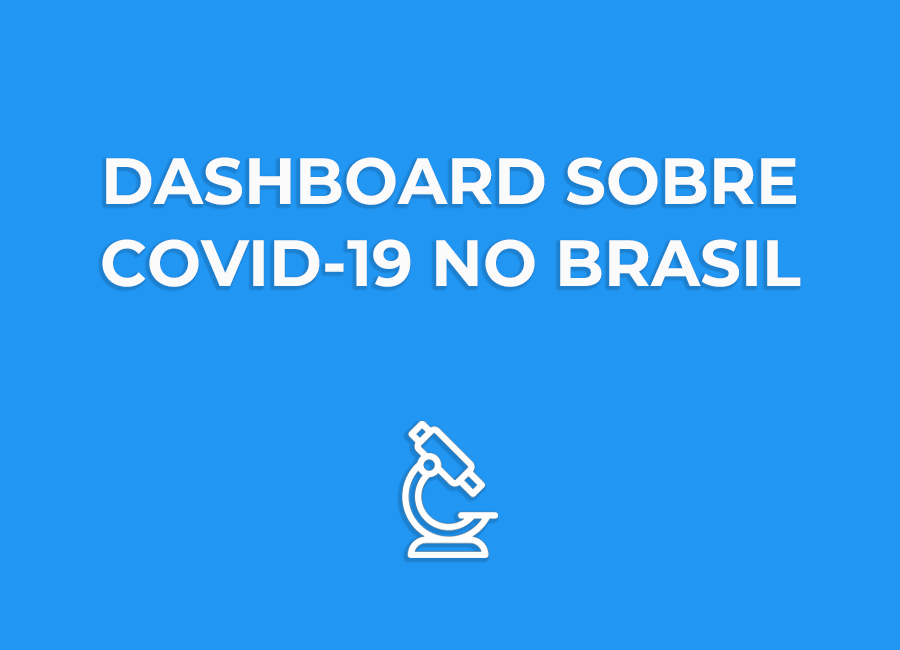
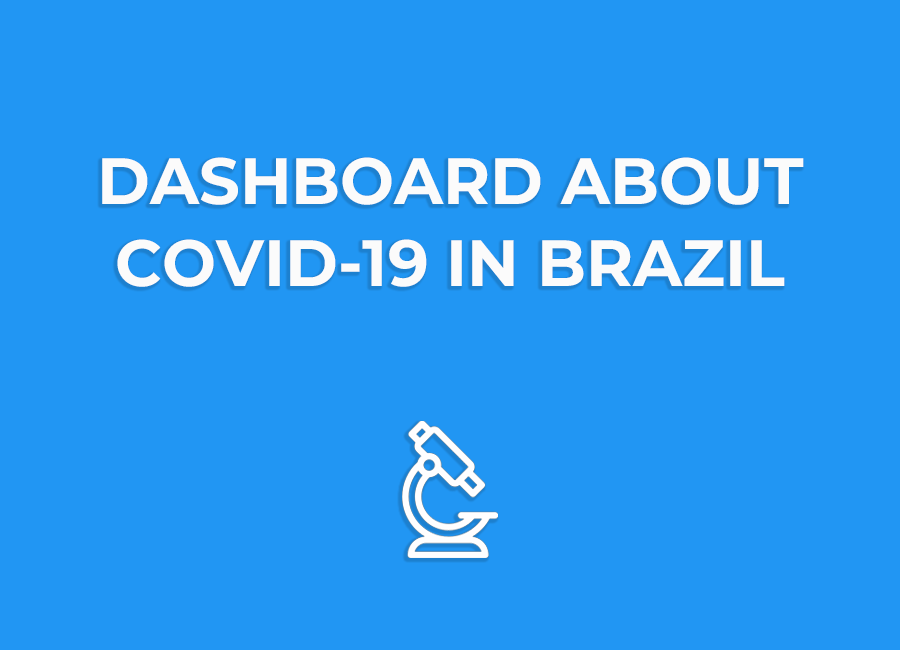
atualização do portfolio no geral

Changed region(s): [[0.0933, 0.3692, 0.9022, 0.4615], [0.0933, 0.2462, 0.9022, 0.3385]]

diff --git a/templates/homepage.html b/templates/homepage.html
@@ -69,7 +69,7 @@
                     <div class="col-lg-12 mt-4 mb-2">
                         <p class="lead">I'm a data enthusiast passionate about turning data into impactful insights. 
                                         With a unique career path transitioning from Human Resources to the tech field, 
-                                        I'm deeply engrossed in the world of data analysis, data engineering and system development. 
+                                        I'm deeply involved  in the world of data analysis, data engineering and system development. 
                                         I'm currently studying Systems Analysis and Development at FATEC-SP, 
                                         continuously honing my technical and theoretical skills.</p>
                     </div>
@@ -308,13 +308,15 @@
                                     <iframe class="dashboard" src="https://lookerstudio.google.com/embed/reporting/13a73b4c-ee10-4774-8746-a22608a8839c/page/jCeVD" frameborder="0" style="border:0" allowfullscreen sandbox="allow-storage-access-by-user-activation allow-scripts allow-same-origin allow-popups allow-popups-to-escape-sandbox"></iframe>
                                     <!-- Portfolio Modal - Text-->
                                     
-                                    <h2 class="portfolio-modal-subtitle mb-5 mt-5" >Project Tasks:</h2>
+                                    <h2 class="portfolio-modal-subtitle mb-5 mt-5" >Summary:</h2>
 
                                     <ul>
                                         <li>Development of an interactive dashboard based on exploratory data analysis of COVID-19 cases and deaths between 2021 and 2022, as well as the vaccination process in Brazil.</li>
                                         <li>ETL (Extract, Transform, Load) of the data provided by the government for structuring the CSV.</li>
                                         <li>Utilization of Google Data Studio for the creation of the interactive dashboard.</li>
                                     </ul>
+
+                                    <p class="mb-2 mt-5">The detailed description of this project is present in the following link: <a href="https://www.kaggle.com/code/caiomarquesribeiro/covid-dashboard">Kaggle</a></p>
 
                                     <button class="btn btn-primary mt-5" data-bs-dismiss="modal">
                                         <i class="fas fa-xmark fa-fw"></i>
@@ -337,7 +339,7 @@
                             <div class="row justify-content-center">
                                 <div class="col-lg-8">
                                     <!-- Portfolio Modal - Title-->
-                                    <h2 class="portfolio-modal-title text-secondary text-uppercase mb-0" style="line-height: 1.0;">Análise Preditiva Imobiliária do Quinto Andar</h2>
+                                    <h2 class="portfolio-modal-title text-secondary text-uppercase mb-0" style="line-height: 1.0;">Real Estate Predictive Analysis Quinto Andar</h2>
                                     <!-- Icon Divider-->
                                     <div class="divider-custom">
                                         <div class="divider-custom-line"></div>
@@ -347,14 +349,18 @@
                                     <!-- Portfolio Modal - Image-->
                                     <img class="img-fluid rounded mb-2" src="static/assets/img/portfolio/quintoandar.png" alt="..." />
                                     <!-- Portfolio Modal - Text-->
-                                    <h2 class="portfolio-modal-subtitle mb-5 mt-5" >Project Tasks:</h2>
+                                    <h2 class="portfolio-modal-subtitle mb-5 mt-5" >Summary:</h2>
 
                                     <ul>
-                                        <li>Development of an interactive dashboard based on exploratory data analysis of COVID-19 cases and deaths between 2021 and 2022, as well as the vaccination process in Brazil.</li>
-                                        <li>ETL (Extract, Transform, Load) of the data provided by the government for structuring the CSV.</li>
-                                        <li>Utilization of Google Data Studio for the creation of the interactive dashboard.</li>
+                                        <li>Creation of a predictive model in linear regression of property and rental values in São Paulo using Pandas, Scikit Learn and Geopy Python packages.</li>
+                                        <li>Interactive Dashboard to view properties by price, rent and region using Power BI Free.</li>
+                                        <li>Data acquisition via Web Scraping, Kaggle Dataset and city quality indicators at <a href="https://www.redesocialdecidades.org.br">rede social de cidades</a>.</li>
+                  
                                     </ul>
-                                    <button class="btn btn-primary" data-bs-dismiss="modal">
+
+                                    <p class="mb-2 mt-5">The detailed description of this project is present in the following link: <a href="https://github.com/caiombribeiro/analise_quintoandar/blob/main/saopaulo_precos.ipynb">GitHub</a></p>
+
+                                    <button class="btn btn-primary mt-5" data-bs-dismiss="modal">
                                         <i class="fas fa-xmark fa-fw"></i>
                                         Close Window
                                     </button>
@@ -375,7 +381,7 @@
                             <div class="row justify-content-center">
                                 <div class="col-lg-8">
                                     <!-- Portfolio Modal - Title-->
-                                    <h2 class="portfolio-modal-title text-secondary text-uppercase mb-0">Circus Tent</h2>
+                                    <h2 class="portfolio-modal-title text-secondary text-uppercase mb-0" style="line-height: 1.0;">Income Statement Dashboard</h2>
                                     <!-- Icon Divider-->
                                     <div class="divider-custom">
                                         <div class="divider-custom-line"></div>
@@ -383,10 +389,19 @@
                                         <div class="divider-custom-line"></div>
                                     </div>
                                     <!-- Portfolio Modal - Image-->
-                                    <img class="img-fluid rounded mb-5" src="static/assets/img/portfolio/circus.png" alt="..." />
+                                    <img class="img-fluid rounded mb-2" src="static/assets/img/portfolio/dredashboard.png" alt="..." />
                                     <!-- Portfolio Modal - Text-->
-                                    <p class="mb-4">Lorem ipsum dolor sit amet, consectetur adipisicing elit. Mollitia neque assumenda ipsam nihil, molestias magnam, recusandae quos quis inventore quisquam velit asperiores, vitae? Reprehenderit soluta, eos quod consequuntur itaque. Nam.</p>
-                                    <button class="btn btn-primary" data-bs-dismiss="modal">
+                                    <h2 class="portfolio-modal-subtitle mb-5 mt-5" >Summary:</h2>
+
+                                    <ul>
+                                        <li>Transformation of accounting entries into a more accessible format using Python and Pandas.</li>
+                                        <li>Two different options for reading data: Income Statement or Dashboard Plot. </li>
+                                        <li>Interactive Dashboard, created with Power BI Free, to view properties by date (year, quarter, month) and accounting account.</li>
+                                    </ul>
+
+                                    <p class="mb-2 mt-5">This project is not available for viewing due to customer compliance</p>
+
+                                    <button class="btn btn-primary mt-5" data-bs-dismiss="modal">
                                         <i class="fas fa-xmark fa-fw"></i>
                                         Close Window
                                     </button>
@@ -407,7 +422,7 @@
                             <div class="row justify-content-center">
                                 <div class="col-lg-8">
                                     <!-- Portfolio Modal - Title-->
-                                    <h2 class="portfolio-modal-title text-secondary text-uppercase mb-0">Controller</h2>
+                                    <h2 class="portfolio-modal-title text-secondary text-uppercase mb-0" style="line-height: 1.0;">Data Pipeline Telegram</h2>
                                     <!-- Icon Divider-->
                                     <div class="divider-custom">
                                         <div class="divider-custom-line"></div>
@@ -415,10 +430,21 @@
                                         <div class="divider-custom-line"></div>
                                     </div>
                                     <!-- Portfolio Modal - Image-->
-                                    <img class="img-fluid rounded mb-5" src="static/assets/img/portfolio/game.png" alt="..." />
+                                    <img class="img-fluid rounded mb-2" src="static/assets/img/portfolio/pipelinetelegram.png" alt="..." />
                                     <!-- Portfolio Modal - Text-->
-                                    <p class="mb-4">Lorem ipsum dolor sit amet, consectetur adipisicing elit. Mollitia neque assumenda ipsam nihil, molestias magnam, recusandae quos quis inventore quisquam velit asperiores, vitae? Reprehenderit soluta, eos quod consequuntur itaque. Nam.</p>
-                                    <button class="btn btn-primary" data-bs-dismiss="modal">
+                                    <h2 class="portfolio-modal-subtitle mb-5 mt-5" >Summary:</h2>
+
+                                    <ul>
+                                        <li>Data collection on Telegram via chatbot, connecting Telegram with the AWS API applied with code in AWS Lambda to store JSON, all automatically in AWS S3.</li>
+                                        <li>Transformation of JSON into a parquet file, using Pyarrow to save space, separating data into data.</li>
+                                        <li>Automation of this previous process through AWS Step Functions and Event Brigde.</li>
+                                        <li>SQL query with AWS. Python code was included in AWS Lambda and Step Functions so that the SQL table update is always automatically updated.</li>
+                  
+                                    </ul>
+
+                                    <p class="mb-2 mt-5">The detailed description of this project is present in the following link: <a href="https://github.com/caiombribeiro/ebac-pipeline/blob/main/Pipeline_de_Dados_do_Telegram.ipynb">GitHub</a></p>
+
+                                    <button class="btn btn-primary mt-5" data-bs-dismiss="modal">
                                         <i class="fas fa-xmark fa-fw"></i>
                                         Close Window
                                     </button>
@@ -439,7 +465,7 @@
                             <div class="row justify-content-center">
                                 <div class="col-lg-8">
                                     <!-- Portfolio Modal - Title-->
-                                    <h2 class="portfolio-modal-title text-secondary text-uppercase mb-0">Locked Safe</h2>
+                                    <h2 class="portfolio-modal-title text-secondary text-uppercase mb-0" style="line-height: 1.0;">Data Transformation Freelancer</h2>
                                     <!-- Icon Divider-->
                                     <div class="divider-custom">
                                         <div class="divider-custom-line"></div>
@@ -447,10 +473,20 @@
                                         <div class="divider-custom-line"></div>
                                     </div>
                                     <!-- Portfolio Modal - Image-->
-                                    <img class="img-fluid rounded mb-5" src="static/assets/img/portfolio/safe.png" alt="..." />
+                                    <img class="img-fluid rounded mb-2" src="static/assets/img/portfolio/quintoandar.png" alt="..." />
                                     <!-- Portfolio Modal - Text-->
-                                    <p class="mb-4">Lorem ipsum dolor sit amet, consectetur adipisicing elit. Mollitia neque assumenda ipsam nihil, molestias magnam, recusandae quos quis inventore quisquam velit asperiores, vitae? Reprehenderit soluta, eos quod consequuntur itaque. Nam.</p>
-                                    <button class="btn btn-primary" data-bs-dismiss="modal">
+                                    <h2 class="portfolio-modal-subtitle mb-5 mt-5" >Summary:</h2>
+
+                                    <ul>
+                                        <li>Creation of a predictive model in linear regression of property and rental values in São Paulo using Pandas, Scikit Learn and Geopy Python packages.</li>
+                                        <li>Interactive Dashboard to view properties by price, rent and region using Power BI Free.</li>
+                                        <li>Data acquisition via Web Scraping, Kaggle Dataset and city quality indicators at <a href="https://www.redesocialdecidades.org.br">rede social de cidades</a>.</li>
+                  
+                                    </ul>
+
+                                    <p class="mb-2 mt-5">The detailed description of this project is present in the following link: <a href="https://github.com/caiombribeiro/analise_quintoandar/blob/main/saopaulo_precos.ipynb">GitHub</a></p>
+
+                                    <button class="btn btn-primary mt-5" data-bs-dismiss="modal">
                                         <i class="fas fa-xmark fa-fw"></i>
                                         Close Window
                                     </button>
@@ -471,7 +507,7 @@
                             <div class="row justify-content-center">
                                 <div class="col-lg-8">
                                     <!-- Portfolio Modal - Title-->
-                                    <h2 class="portfolio-modal-title text-secondary text-uppercase mb-0">Submarine</h2>
+                                    <h2 class="portfolio-modal-title text-secondary text-uppercase mb-0" style="line-height: 1.0;">A Bank's Fictional Case Study</h2>
                                     <!-- Icon Divider-->
                                     <div class="divider-custom">
                                         <div class="divider-custom-line"></div>
@@ -479,10 +515,20 @@
                                         <div class="divider-custom-line"></div>
                                     </div>
                                     <!-- Portfolio Modal - Image-->
-                                    <img class="img-fluid rounded mb-5" src="static/assets/img/portfolio/submarine.png" alt="..." />
+                                    <img class="img-fluid rounded mb-2" src="static/assets/img/portfolio/quintoandar.png" alt="..." />
                                     <!-- Portfolio Modal - Text-->
-                                    <p class="mb-4">Lorem ipsum dolor sit amet, consectetur adipisicing elit. Mollitia neque assumenda ipsam nihil, molestias magnam, recusandae quos quis inventore quisquam velit asperiores, vitae? Reprehenderit soluta, eos quod consequuntur itaque. Nam.</p>
-                                    <button class="btn btn-primary" data-bs-dismiss="modal">
+                                    <h2 class="portfolio-modal-subtitle mb-5 mt-5" >Summary:</h2>
+
+                                    <ul>
+                                        <li>Creation of a predictive model in linear regression of property and rental values in São Paulo using Pandas, Scikit Learn and Geopy Python packages.</li>
+                                        <li>Interactive Dashboard to view properties by price, rent and region using Power BI Free.</li>
+                                        <li>Data acquisition via Web Scraping, Kaggle Dataset and city quality indicators at <a href="https://www.redesocialdecidades.org.br">rede social de cidades</a>.</li>
+                  
+                                    </ul>
+
+                                    <p class="mb-2 mt-5">The detailed description of this project is present in the following link: <a href="https://github.com/caiombribeiro/analise_quintoandar/blob/main/saopaulo_precos.ipynb">GitHub</a></p>
+
+                                    <button class="btn btn-primary mt-5" data-bs-dismiss="modal">
                                         <i class="fas fa-xmark fa-fw"></i>
                                         Close Window
                                     </button>
